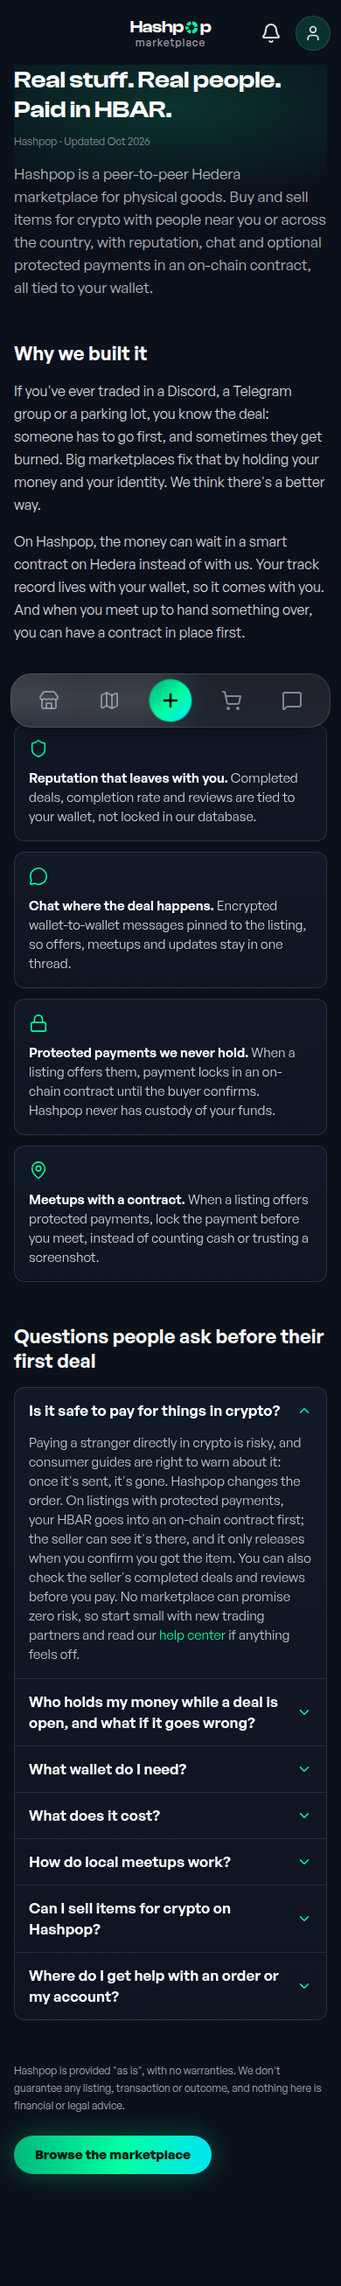
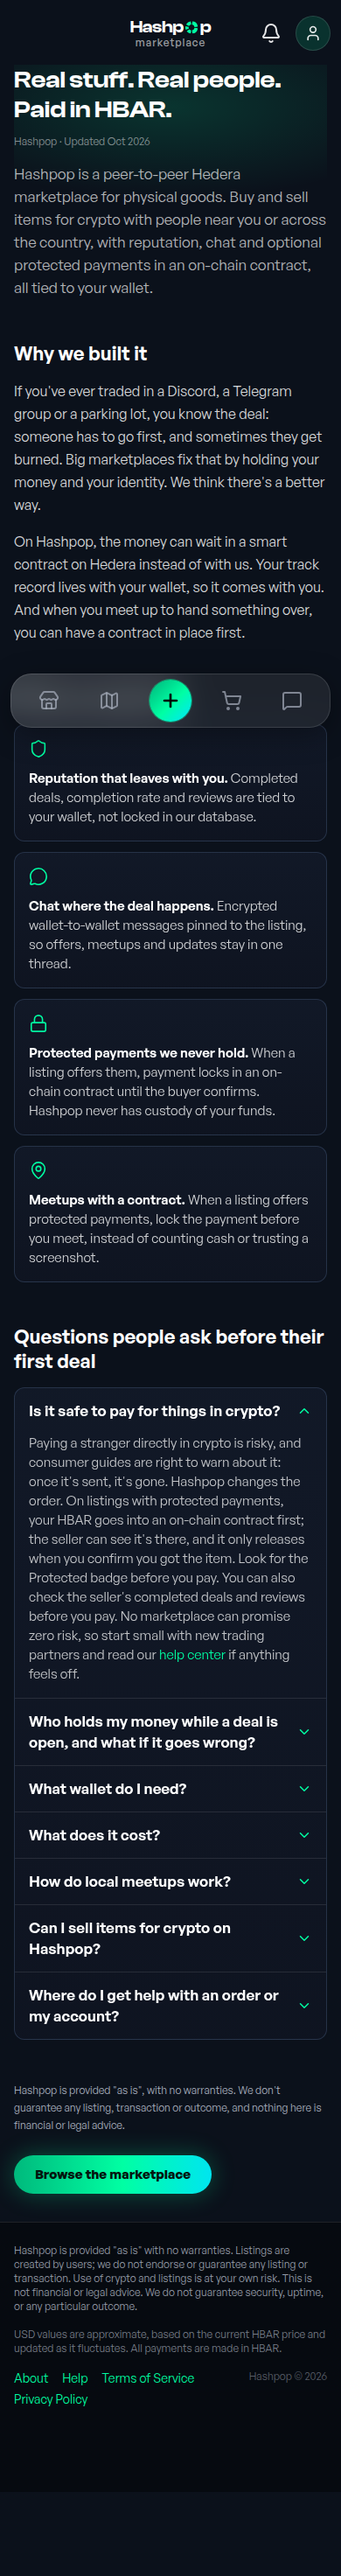
Show the footer on /about and tighten the published FAQ.
The cost answer no longer says also once the fee line is visible, and the sell sentence links to the help selling section.

Changed region(s): [[0.0308, 0.0, 0.9538, 0.9606], [0.8923, 0.0, 0.9538, 0.031], [0.9538, 0.2789, 0.9846, 0.3099]]

diff --git a/frontend/lib/content/__tests__/about.test.ts b/frontend/lib/content/__tests__/about.test.ts
@@ -87,6 +87,22 @@ describe("about copy", () => {
     );
     expect(userFacingAboutCopy()).not.toMatch(/\bescrow\b/i);
     expect(userFacingAboutCopy()).toContain("Look for the Protected badge before you pay.");
+    expect(ABOUT_PAGE.why[1]).toContain("can wait");
+    expect(ABOUT_PAGE.why[1]).toContain("you can have a contract");
+    expect(ABOUT_PAGE.pillars[0]?.body).not.toMatch(/protected payments/i);
+    expect(ABOUT_PAGE.pillars[3]?.body).toContain("When a listing offers protected payments");
+    const faqs = publishedAboutFaqs();
+    const answer = (question: string) =>
+      faqs.find((faq) => faq.question === question)?.answerText ?? "";
+    expect(answer("Is it safe to pay for things in crypto?")).toContain(
+      "On listings with protected payments",
+    );
+    expect(answer("Who holds my money while a deal is open, and what if it goes wrong?")).toContain(
+      "When a listing offers protected payments",
+    );
+    expect(answer("How do local meetups work?")).toContain(
+      "if the listing offers protected payments",
+    );
   });
 
   it("hides only unconfirmed sentences, and keeps the surrounding answers", () => {
@@ -122,8 +138,9 @@ describe("about copy", () => {
       "A Hedera wallet. We support HashPack, the most popular one: install it, add a little HBAR, and connect. There are no passwords to create, and your wallet address is your account.",
     );
     expect(byQuestion["What does it cost?"]).toBe(
-      `${FEE_SENTENCE} Every transaction also pays a small Hedera network fee, which is usually a fraction of a cent. USD values shown on Hashpop are approximate, based on the current HBAR price; all payments are made in HBAR.`,
+      `${FEE_SENTENCE} Every transaction pays a small Hedera network fee, which is usually a fraction of a cent. USD values shown on Hashpop are approximate, based on the current HBAR price; all payments are made in HBAR.`,
     );
+    expect(byQuestion["What does it cost?"]).not.toContain(" also ");
 
     const published = JSON.stringify(faqs);
     for (const fact of hidden) {
@@ -134,6 +151,10 @@ describe("about copy", () => {
   it("points the deal FAQ at /help because /how-it-works is not a route", () => {
     const deal = publishedAboutFaqs().find((faq) => faq.question.startsWith("Who holds my money"));
     expect(deal?.links).toEqual([{ href: "/help", text: "How it works" }]);
+    const sell = publishedAboutFaqs().find((faq) =>
+      faq.question.startsWith("Can I sell items for crypto"),
+    );
+    expect(sell?.links).toEqual([{ href: "/help#selling", text: "Selling on Hashpop" }]);
     expect(JSON.stringify(publishedAboutFaqs())).not.toContain("/how-it-works");
     expect(JSON.stringify(publishedAboutFaqs())).not.toContain("/sell");
     expect(JSON.stringify(publishedAboutFaqs())).not.toContain("/listing/create");

diff --git a/frontend/lib/content/about.ts b/frontend/lib/content/about.ts
@@ -78,7 +78,8 @@ const feeFact = ABOUT_UNCONFIRMED[2];
 
 /**
  * /how-it-works, /sell, and /listing/create are not routes on main.
- * The deal answer links to /help. The sell sentence stays plain text.
+ * The deal answer links to /help. The sell sentence links to the
+ * Selling & shipping section on /help (#selling).
  */
 const ABOUT_FAQS: { question: string; answer: AboutSpan[] }[] = [
   {
@@ -133,7 +134,7 @@ const ABOUT_FAQS: { question: string; answer: AboutSpan[] }[] = [
       },
       {
         type: "text",
-        text: "Every transaction also pays a small Hedera network fee, which is usually a fraction of a cent. USD values shown on Hashpop are approximate, based on the current HBAR price; all payments are made in HBAR.",
+        text: "Every transaction pays a small Hedera network fee, which is usually a fraction of a cent. USD values shown on Hashpop are approximate, based on the current HBAR price; all payments are made in HBAR.",
       },
     ],
   },
@@ -153,8 +154,10 @@ const ABOUT_FAQS: { question: string; answer: AboutSpan[] }[] = [
     answer: [
       {
         type: "text",
-        text: "Yes. Connect your wallet, snap a few photos, write an honest description and set a price in HBAR. On a direct sale you are paid when the buyer pays. When you offer {ESCROW}, you are paid when the buyer confirms. See Selling on Hashpop for what you can and can't list.",
+        text: "Yes. Connect your wallet, snap a few photos, write an honest description and set a price in HBAR. On a direct sale you are paid when the buyer pays. When you offer {ESCROW}, you are paid when the buyer confirms. See ",
       },
+      { type: "link", href: "/help#selling", text: "Selling on Hashpop" },
+      { type: "text", text: " for what you can and can't list." },
     ],
   },
   {

diff --git a/frontend/components/DesktopShell.tsx b/frontend/components/DesktopShell.tsx
@@ -168,7 +168,10 @@ export function DesktopShell({ children }: { children: React.ReactNode }) {
 
   const fallbackTitle = pathnameTitle(pathname);
   const showFooter =
-    pathname === "/" || pathname === "/marketplace" || pathname.startsWith("/marketplace");
+    pathname === "/" ||
+    pathname === "/about" ||
+    pathname === "/marketplace" ||
+    pathname.startsWith("/marketplace");
   // `/` and `/marketplace` render the marketplace slim header. Listing, Terms,
   // Privacy, and /about reuse that same MarketplaceDesktopHeader. Keep this
   // shell bar off those routes so the icon row, Connect chip, and Sign in pill
@@ -379,8 +382,8 @@ export function DesktopShell({ children }: { children: React.ReactNode }) {
             </div>
           ))}
         {/* Content takes the available height so the footer (marketplace
-            only) stays pinned to the bottom. Keyed on pathname so each route
-            change eases in gently instead of snapping. */}
+            and /about, both viewports) stays pinned to the bottom. Keyed on
+            pathname so each route change eases in gently instead of snapping. */}
         <div key={pathname} className="flex-1 animate-[fadeSlideUp_0.5s_ease-out]">
           {children}
         </div>

diff --git a/frontend/components/__tests__/DesktopShell.marketplace.test.tsx b/frontend/components/__tests__/DesktopShell.marketplace.test.tsx
@@ -101,6 +101,7 @@ describe("DesktopShell marketplace chrome", () => {
       expect(document.body.textContent).not.toContain("Connect");
       expect(document.querySelector('[data-testid="mobile-top-bar"]')).toBeNull();
       expect(document.body.textContent).toContain("page");
+      expect(document.querySelector("footer")).toBeTruthy();
     },
   );
 
@@ -122,6 +123,7 @@ describe("DesktopShell marketplace chrome", () => {
     expect(shellHeader?.className).toContain("h-0");
     expect(shellHeader?.className).toContain("md:h-14");
     expect(shellHeader?.className).not.toContain(" h-14 ");
+    expect(document.querySelector("footer")).toBeNull();
   });
 
   it.each(["/cart", "/messages", "/offers", "/create", "/dashboard", "/profile/0.0.1234"])(
@@ -258,6 +260,7 @@ describe("DesktopShell marketplace chrome", () => {
     expect(brand).toBeTruthy();
     expect(brand.parentElement?.parentElement?.className).toContain("md:hidden");
     expect(document.querySelector('[data-testid="mobile-top-bar"]')).toBeNull();
+    expect(document.querySelector("footer")).toBeTruthy();
   });
 
   it("links the desktop account chip to the profile", async () => {

diff --git a/frontend/app/help/help-center.tsx b/frontend/app/help/help-center.tsx
@@ -52,7 +52,10 @@ export default function HelpCenter({ faqs }: { faqs: { category: string; items: 
             <p className="text-silver">No articles matched “{query}”.</p>
           ) : (
             filtered.map((group) => (
-              <section key={group.category}>
+              <section
+                key={group.category}
+                id={group.category === "Selling & shipping" ? "selling" : undefined}
+              >
                 <h2 className="mb-2 text-xs font-bold uppercase tracking-widest text-silver">
                   {group.category}
                 </h2>
